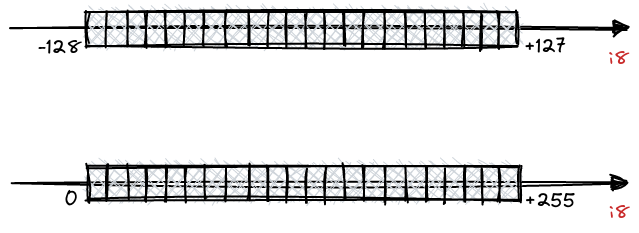
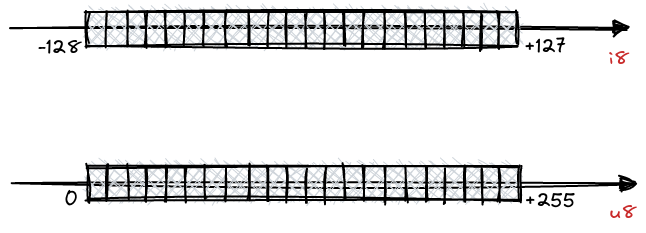
Remove insert time + change i8 to u8 on images

diff --git a/qdrant-landing/content/articles/scalar-quantization.md b/qdrant-landing/content/articles/scalar-quantization.md
@@ -141,14 +141,13 @@ in the tables:
 <table>
    <thead>
       <tr>
-         <th colspan="3"></th>
+         <th colspan="2"></th>
          <th colspan="2">ef = 128</th>
          <th colspan="2">ef = 256</th>
          <th colspan="2">ef = 512</th>
       </tr>
       <tr>
          <th></th>
-         <th><small>Upload time</small></th>
          <th><small>Upload and indexing time</small></th>
          <th><small>Mean search precision</small></th>
          <th><small>Mean search time</small></th>
@@ -161,7 +160,6 @@ in the tables:
    <tbody>
       <tr>
          <th>Non-quantized vectors</th>
-         <td>418 s</td>
          <td>649 s</td>
          <td>0.989</td>
          <td>0.0094</td>
@@ -172,7 +170,6 @@ in the tables:
       </tr>
       <tr>
          <th>Scalar Quantization</th>
-         <td>411 s</td>
          <td>496 s</td>
          <td>0.986</td>
          <td>0.0037</td>
@@ -183,7 +180,6 @@ in the tables:
       </tr>
       <tr>
          <td>Difference</td>
-         <td><span style="color: green;">-1.67%</span></td>
          <td><span style="color: green;">-23.57%</span></td>
          <td><span style="color: red;">-0.3%</span></td>
          <td><span style="color: green;">-60.64%</span></td>
@@ -204,14 +200,13 @@ difference in your search quality.
 <table>
    <thead>
       <tr>
-         <th colspan="3"></th>
+         <th colspan="2"></th>
          <th colspan="2">ef = 128</th>
          <th colspan="2">ef = 256</th>
          <th colspan="2">ef = 512</th>
       </tr>
       <tr>
          <th></th>
-         <th><small>Upload time</small></th>
          <th><small>Upload and indexing time</small></th>
          <th><small>Mean search precision</small></th>
          <th><small>Mean search time</small></th>
@@ -224,7 +219,6 @@ difference in your search quality.
    <tbody>
       <tr>
          <th>Non-quantized vectors</th>
-         <td>272</td>
          <td>452</td>
          <td>0.802</td>
          <td>0.077</td>
@@ -235,7 +229,6 @@ difference in your search quality.
       </tr>
       <tr>
          <th>Scalar Quantization</th>
-         <td>247</td>
          <td>312</td>
          <td>0.802</td>
          <td>0.043</td>
@@ -246,7 +239,6 @@ difference in your search quality.
       </tr>
       <tr>
          <td>Difference</td>
-         <td><span style="color: green;">-9.19%</span></td>
          <td><span style="color: green;">-30.79%</span></td>
          <td>0%</td>
          <td><span style="color: green;">-44,16%</span></td>
